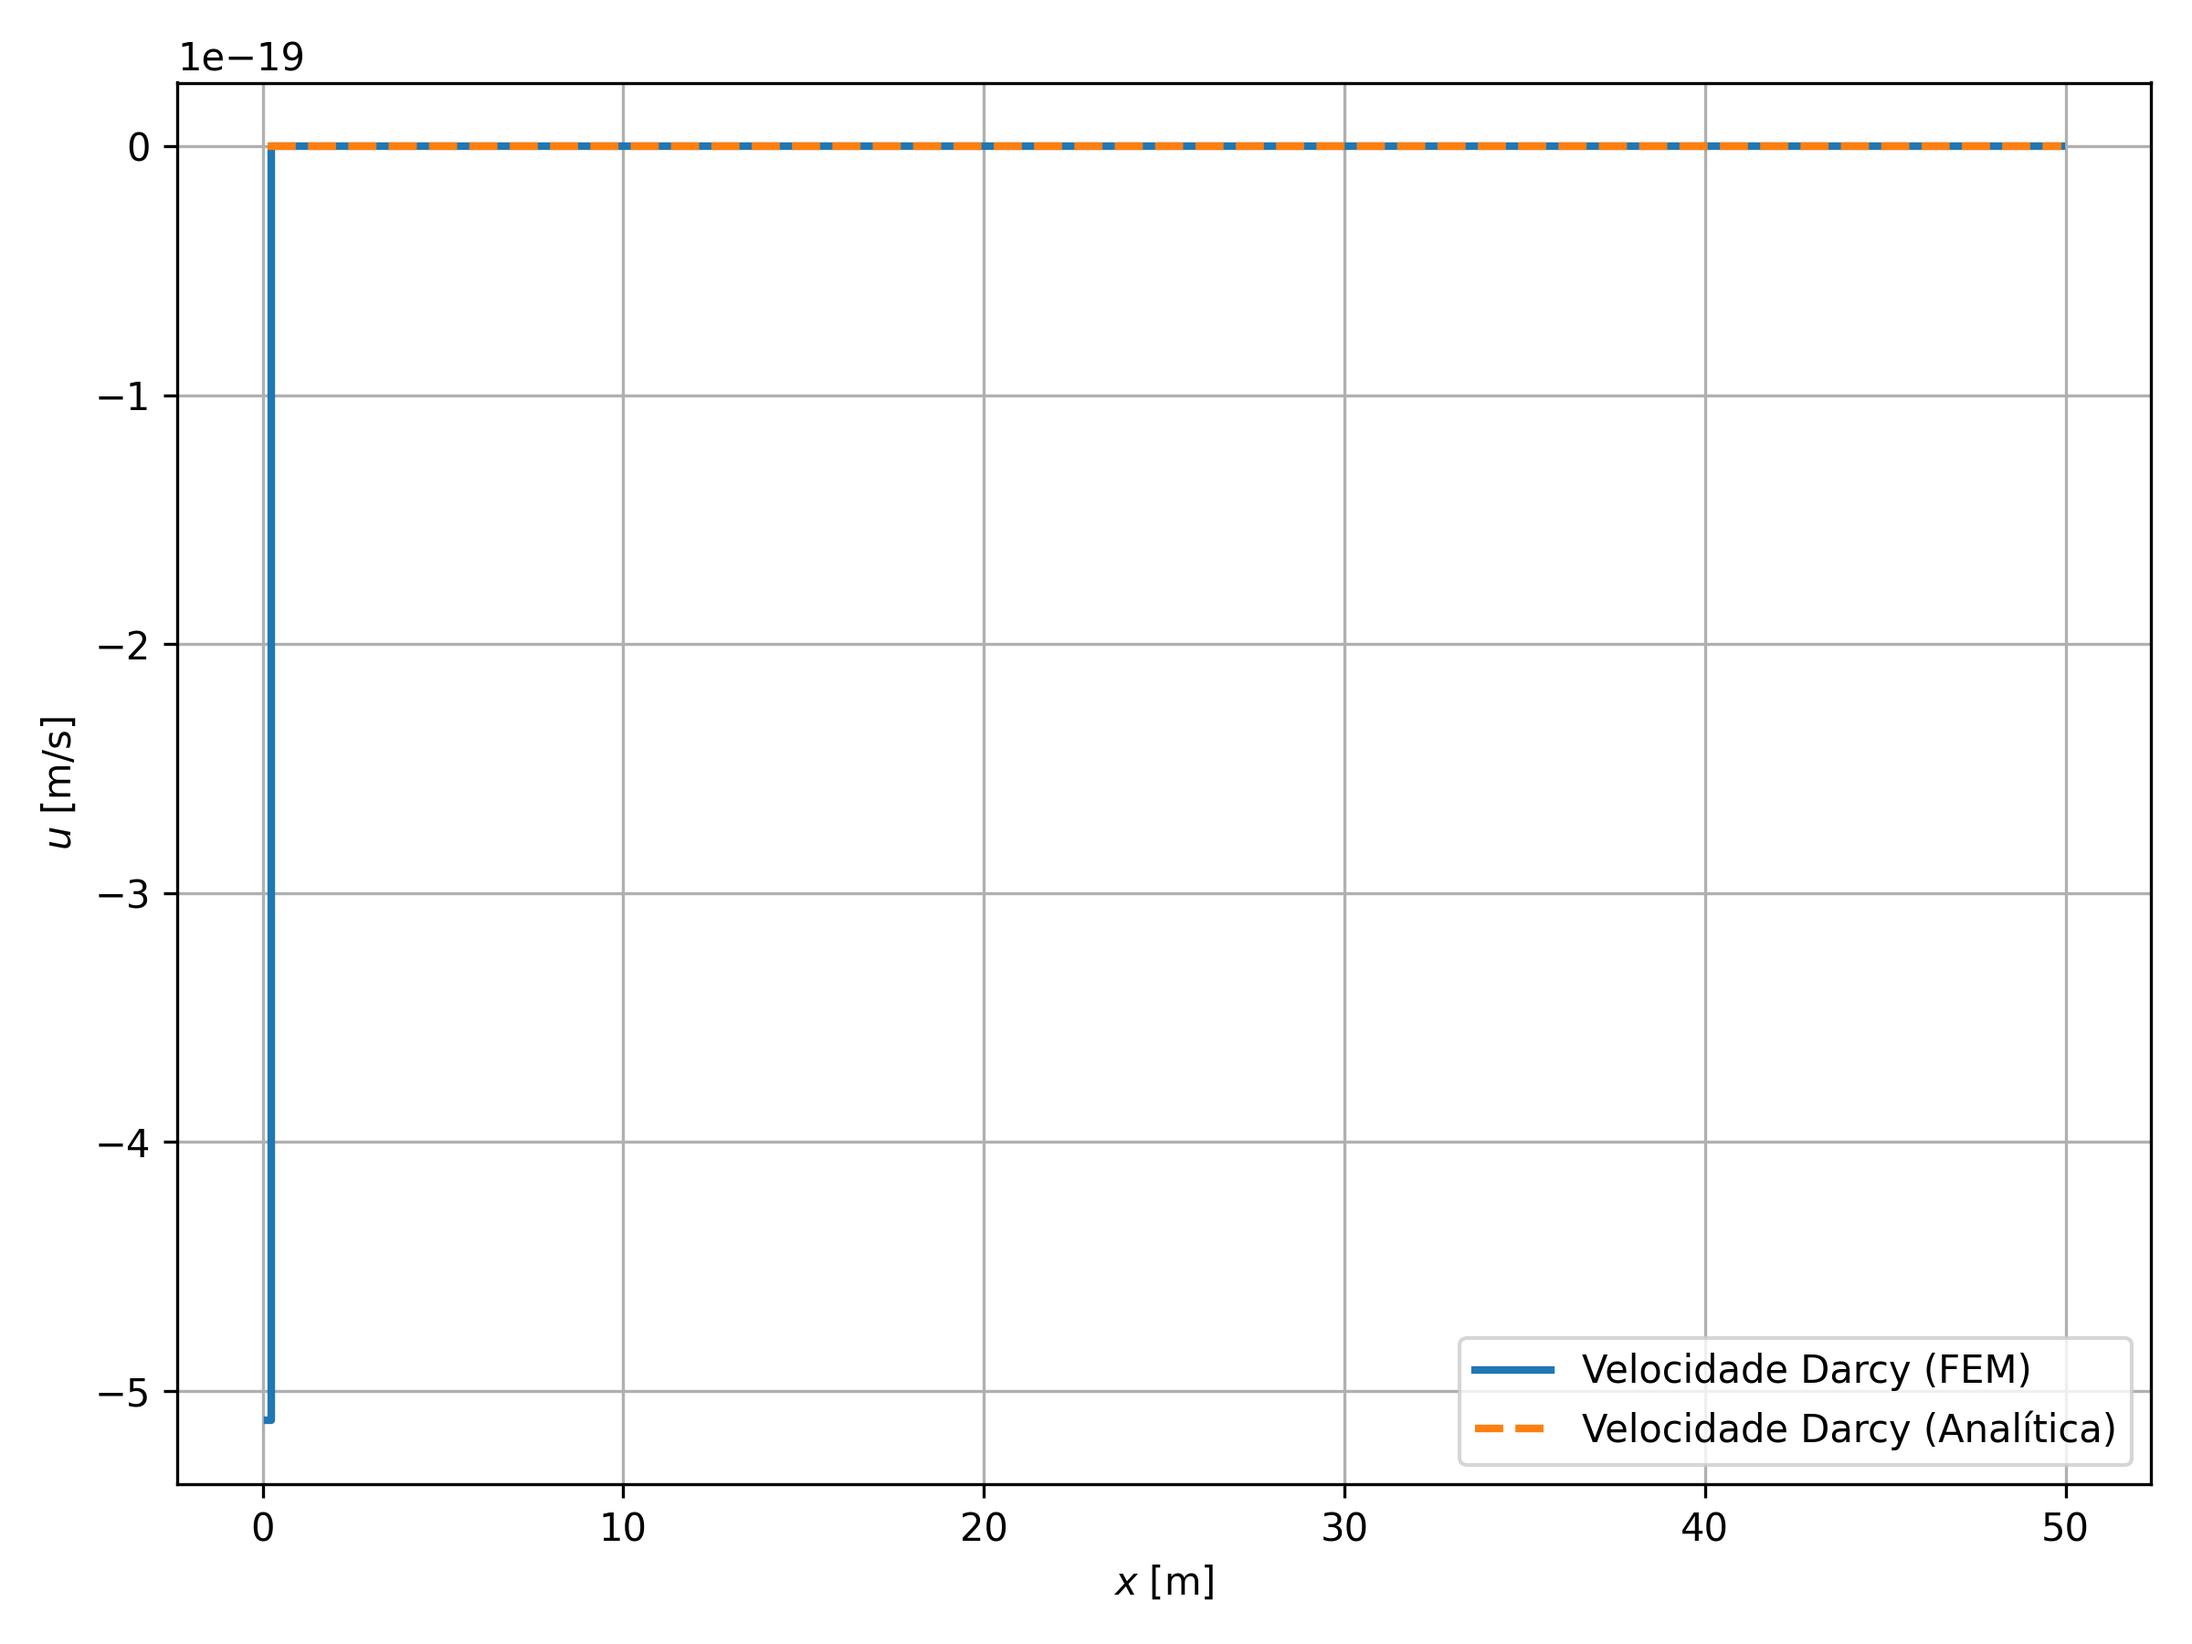
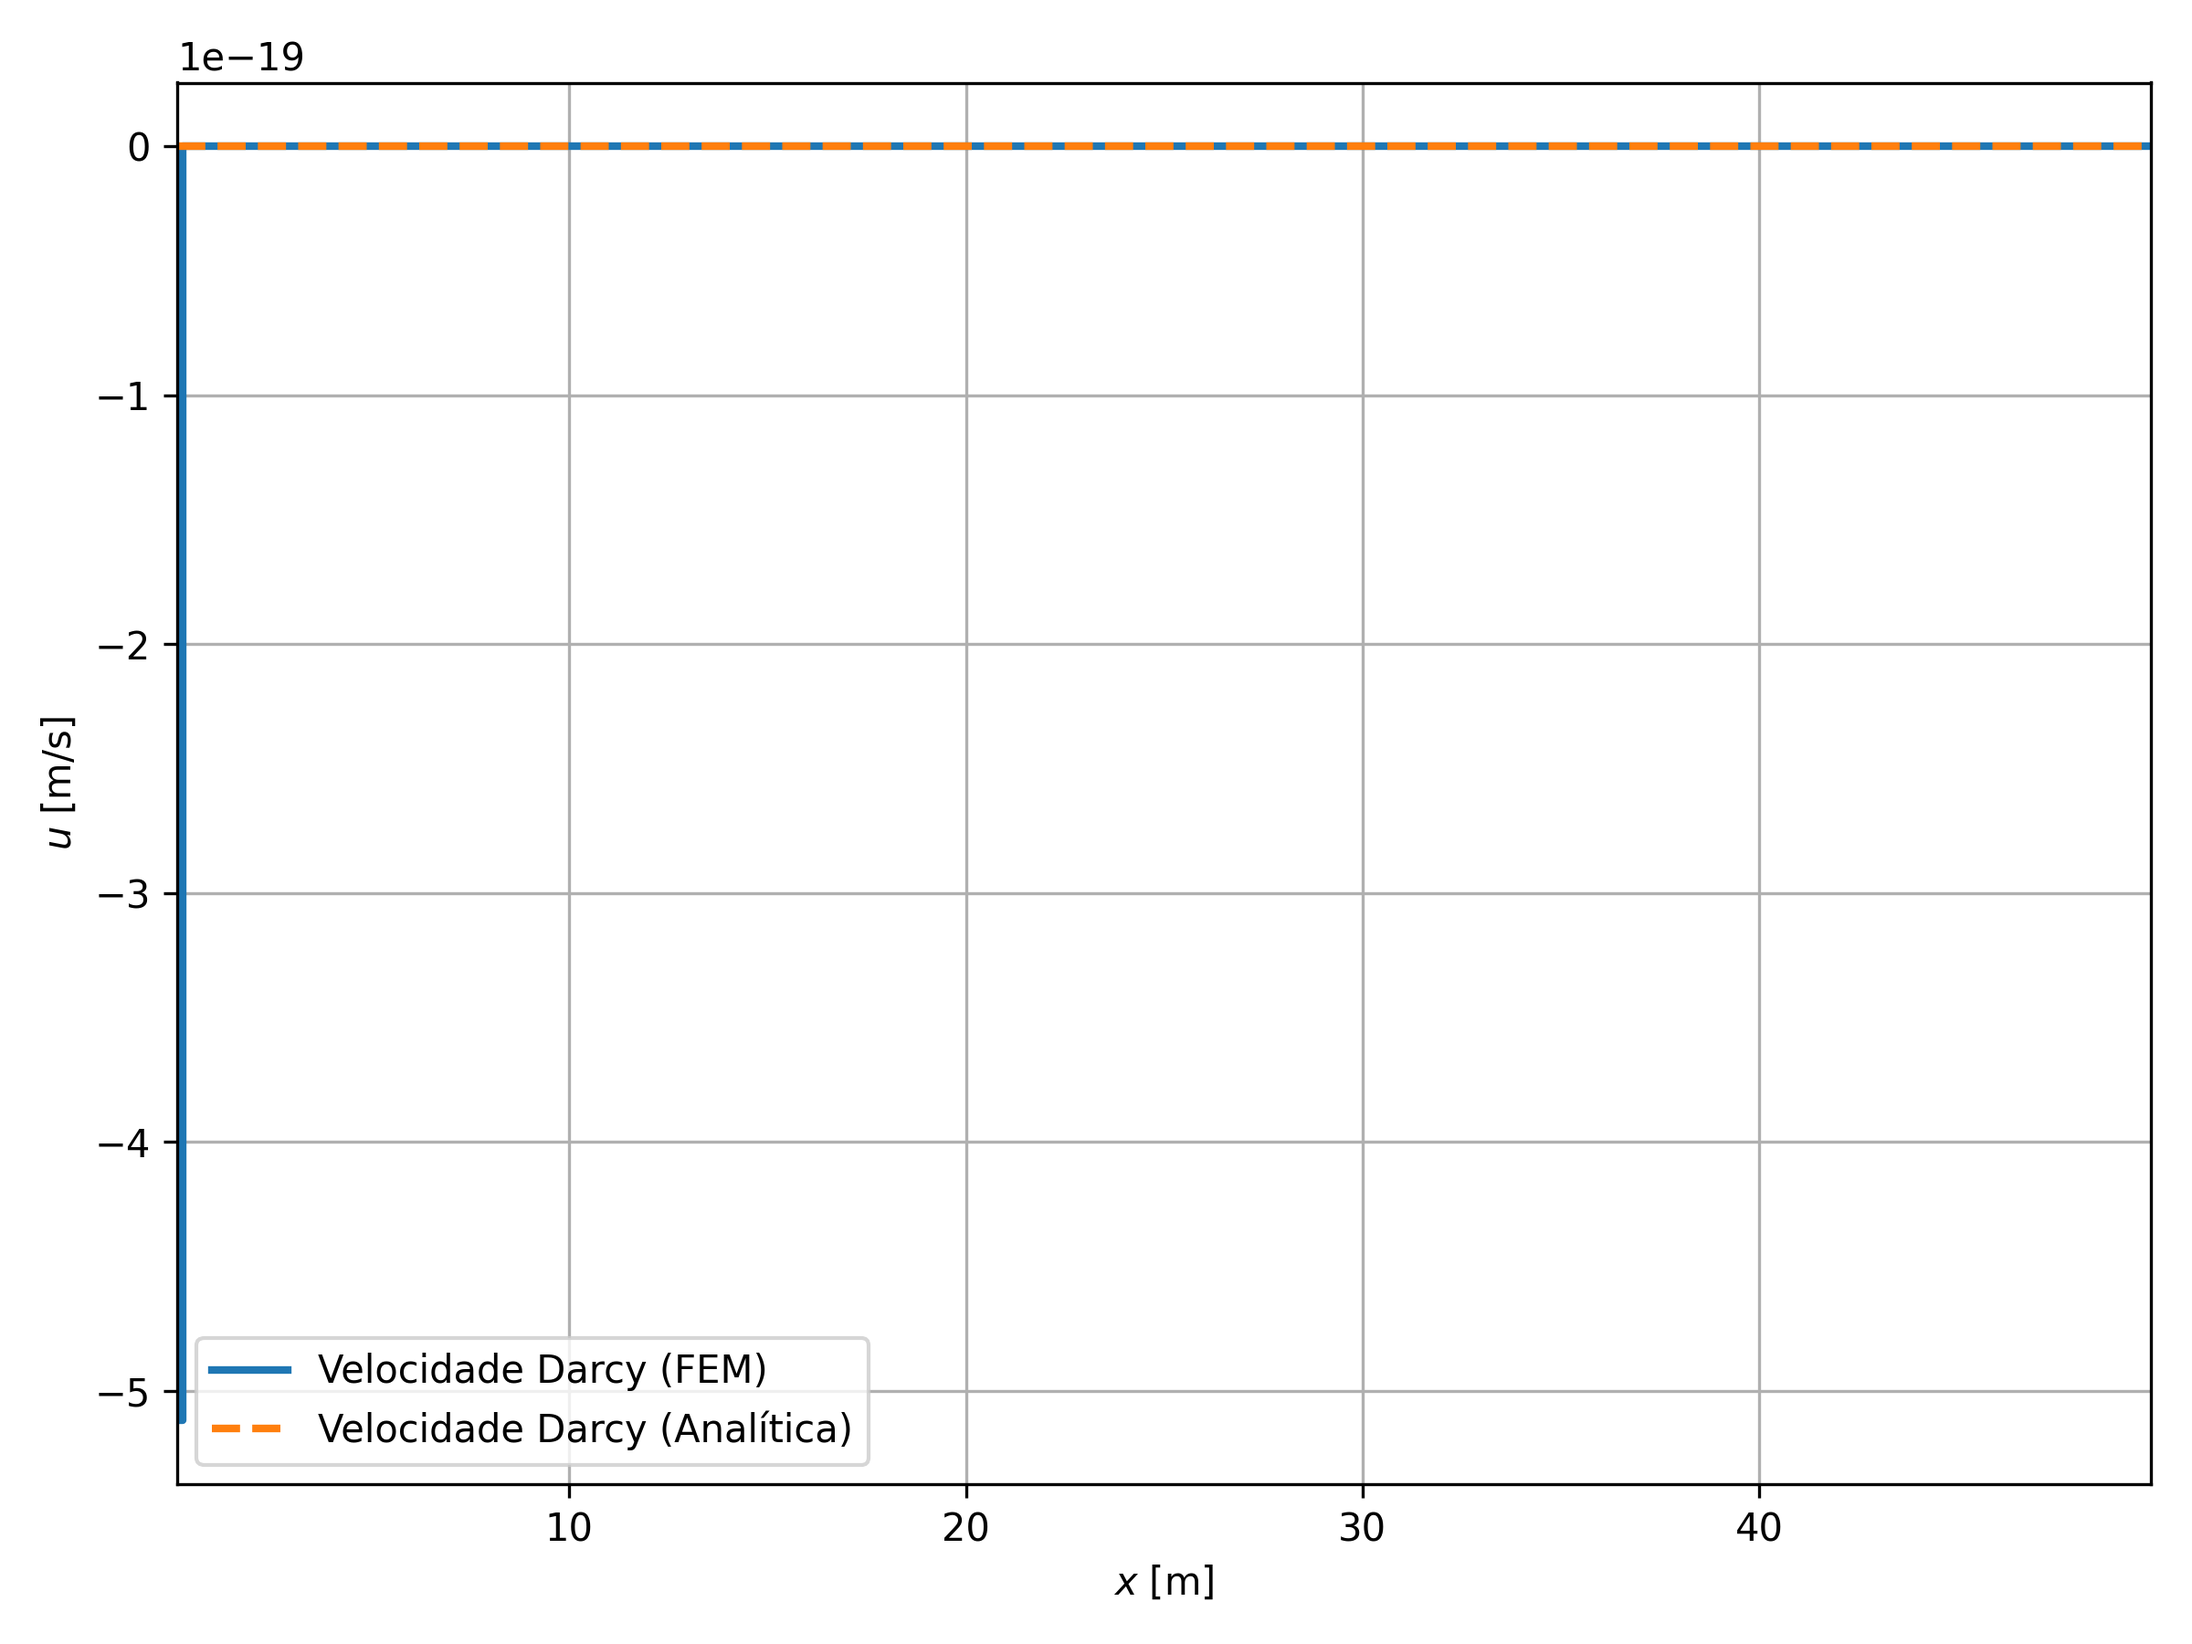
Adjusting plots and adding post-processing of velocity in DN cases.

diff --git a/src/darcy_1D_estacionario.py b/src/darcy_1D_estacionario.py
@@ -111,6 +111,7 @@ plt.xlabel(r"$x$ [m]")
 plt.ylabel(r"$u$ [m/s]")
 plt.grid(True)
 plt.legend()
+plt.ticklabel_format(style='plain', axis='y')
 plt.tight_layout()
 plt.savefig("steady-DN-velocity.png")
 # """
@@ -124,11 +125,11 @@ pw = float(p_left)
 
 # solution
 x_values = mesh.coordinates.dat.data_ro
-p_analytical = np.ones_like(x_values) * pw / 1e3  # kPa
+p_analytical = np.ones_like(x_values) * pw / 1e6  # MPa
 
 u_analytical = np.zeros_like(x_cells) 
 
-p_values = p.dat.data_ro / 1e3  # kPa
+p_values = p.dat.data_ro / 1e6  # MPa
 
 
 # =========================
@@ -136,28 +137,23 @@ p_values = p.dat.data_ro / 1e3  # kPa
 # =========================
 plt.figure(dpi=300, figsize=(8, 6))
 
-plt.step(
-    x_cells,
-    u_values,
-    where="mid",
-    linewidth=2,
-    label="Velocidade Darcy (FEM)"
-)
-
-plt.plot(
-    x_cells,
-    u_analytical,
-    "--",
-    linewidth=2,
-    label="Velocidade Darcy (Analítica)"
-)
+plt.step(x_cells, u_values, where="mid", linewidth=2, label="Velocidade Darcy (FEM)")
+plt.plot(x_cells, u_analytical, "--", linewidth=2, label="Velocidade Darcy (Analítica)")
 
 plt.xlabel(r"$x$ [m]")
 plt.ylabel(r"$u$ [m/s]")
+plt.xlim(x_cells.min(), x_cells.max())
+
+# força notação científica elegante
+ax = plt.gca()
+ax.ticklabel_format(axis='y', style='sci', scilimits=(-2,2))
+ax.yaxis.get_offset_text().set_fontsize(10)
+
 plt.grid(True)
 plt.legend()
 plt.tight_layout()
 plt.savefig("steady-DN-velocity-comparison.png")
+
 
 
 
@@ -166,41 +162,22 @@ plt.savefig("steady-DN-velocity-comparison.png")
 # =========================
 # """
 plt.figure(dpi=300, figsize=(8, 6))
-plt.plot(x_values, p_values, label="Steady state")
-plt.xlabel(r"$x$ [m]")
-plt.ylabel("Pressure [kPa]")
-plt.xlim(x_values.min(), x_values.max())
-plt.grid(True)
-plt.legend()
-plt.tight_layout()
-plt.savefig("steady-DN-pressure.png")
-# plt.show()
-# """
 
-plt.figure(dpi=300, figsize=(8, 6))
-
-plt.plot(
-    x_values,
-    p_values,
-    "o",
-    markersize=3,
-    label="FEM (CG1)"
-)
-
-plt.plot(
-    x_values,
-    p_analytical,
-    "-",
-    linewidth=2,
-    label="Solução analítica"
-)
+plt.plot(x_values, p_values, "o", markersize=3, label="FEM (CG1)")
+plt.plot(x_values, p_analytical, "-", linewidth=2, label="Solução analítica")
 
 plt.xlabel(r"$x$ [m]")
-plt.ylabel("Pressure [kPa]")
+plt.ylabel("Pressure [MPa]")
 plt.xlim(x_values.min(), x_values.max())
+
+# ESCALA BOA
+plt.ylim(19.9, 20.1)  # ajusta para perto de 20 MPa
+
+# REMOVE offset tipo +2e1
+ax = plt.gca()
+ax.ticklabel_format(useOffset=False, style='plain')
+
 plt.grid(True)
 plt.legend()
 plt.tight_layout()
 plt.savefig("steady-DN-pressure-comparison.png")
-# plt.show()
-

diff --git a/src/darcy_1D_transiente.py b/src/darcy_1D_transiente.py
@@ -104,6 +104,20 @@ step = 0
 # diego: x_values = mesh.coordinates.vector().dat.data
 x_values = mesh.coordinates.dat.data_ro # Laira
 
+# =========================
+# Velocity post-processing setup
+# =========================
+V_u = FunctionSpace(mesh, "DG", 0)   # velocidade por célula (constante por elemento)
+u = Function(V_u, name="Darcy velocity")
+
+x = SpatialCoordinate(mesh)
+x_cell = Function(V_u)
+x_cell.project(x[0])
+x_cells = x_cell.dat.data_ro.copy()
+
+u_time_values = []   # aqui que vai ser guardado a velocidade em cada tempo
+
+
 sol_values = []
 p_values_deg1 = []
 psol_deg1 = Function(Vref)
@@ -127,11 +141,22 @@ while t <= T_total:
     psol_deg1.project(p)
     p_vec_deg1 = psol_deg1.dat.data_ro.copy()
     p_values_deg1.append(p_vec_deg1)
+
+    # Darcy velocity at current time
+    u_expr = -(kappa / mu) * p.dx(0)
+    u.project(u_expr)
+
+    u_vec = u.dat.data_ro.copy()
+    u_time_values.append(u_vec)
+
+
     p_k.assign(p)
 
     t += dt
 
-# *** Plotting ***
+# =========================
+# Plotting pressure results
+# =========================
 
 # Setting up the figure object
 fig = plt.figure(dpi=300, figsize=(8, 6))
@@ -162,3 +187,28 @@ plt.grid(False, linestyle='--', linewidth=0.1, which='minor')
 plt.tight_layout()
 plt.savefig('transient-DN-pressure.png')
 #plt.show()
+
+
+# =========================
+# Plot da velocidade de Darcy 
+# =========================
+plt.figure(dpi=300, figsize=(8, 6))
+
+for i in steps_to_plot:
+    plt.step(
+        x_cells,
+        u_time_values[i-1],
+        where="mid",
+        linewidth=2,
+        label=('Day %i' % (i))
+    )
+
+plt.xlabel(r'$x$ [m]')
+plt.ylabel(r'$u$ [m/s]')
+plt.xlim(x_cells.min(), x_cells.max())
+plt.grid(True)
+plt.legend()
+plt.ticklabel_format(style='plain', axis='y')
+plt.tight_layout()
+plt.savefig('transient-DN-velocity.png')
+# plt.show()
